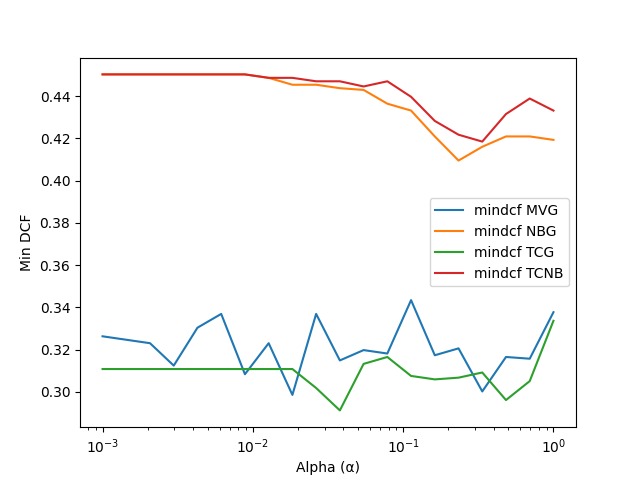
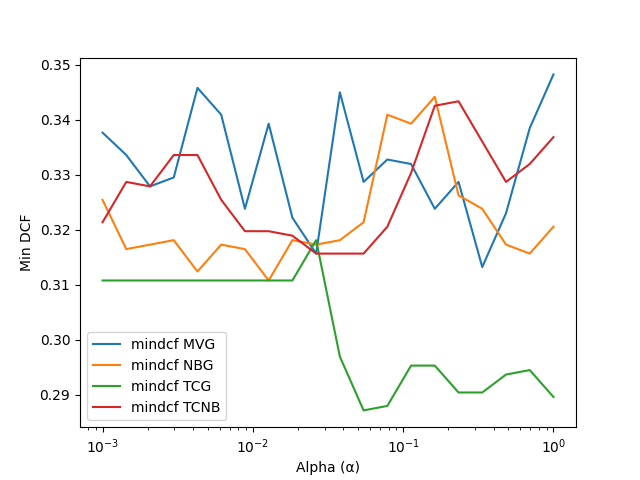
Re-plotting and updated minDCF and actDCF

diff --git a/src/mainGMM.py b/src/mainGMM.py
@@ -58,7 +58,6 @@ def compute_GMM_DCFMin(D, L, p, G, alpha, gauss=False, model='MVG', PCAm=None):
 
     return DCFMin
 
-
 def main_tuning_alpha():
     D, L = load_db()
     p = 0.5
@@ -111,7 +110,6 @@ def main_find_best_G():
     alpha = 0.1
     G = [1, 2, 4, 8, 16, 32, 64, 128, 256, 512]
     MODELS = ['MVG', 'NBG', 'TCG', 'TCNB']
-    
 
     for model in MODELS:
         MINDCF_RAW = np.zeros(len(G))
@@ -131,9 +129,8 @@ def main_best_models():
     alpha = 0.1
     
     for p in [0.5, 0.1, 0.9]:
-        compute_GMM_DCFMin(D, L, p, 512, alpha, False, 'MVG')
-        compute_GMM_DCFMin(D, L, p, 128, alpha, True, 'MVG')
-        compute_GMM_DCFMin(D, L, p, 128, alpha, True, 'TCG')
+        compute_GMM_DCFMin(D, L, p, 8, alpha, True, 'TCG')
+        compute_GMM_DCFMin(D, L, p, 4, alpha, True, 'MVG')
 
 
 def main_BayesPlot(train=True):
@@ -142,50 +139,17 @@ def main_BayesPlot(train=True):
 
     plt.figure()
 
-    # 1 MVG Raw
-    print("MVG Raw 512G (alpha=0.1):")
-    LLR, LTE = compute_GMM_LLR(D, L, 512, alpha, False, 'MVG')
-    minDCF, PI, MP, actDCF = showBayesPlot(LLR, LTE, NUM_CLASSES, "MVG Raw 512G (alpha=0.1)", False)
+    # 1 TCG Gaussianized 8G
+    print("TCG Gau 8G (alpha=0.1):")
+    LLR, LTE = compute_GMM_LLR(D, L, 8, alpha, True, 'TCG')
+    minDCF, PI, MP, actDCF = showBayesPlot(LLR, LTE, NUM_CLASSES, "TCG Gaussianized 8G (alpha=0.1)", False)
     MP[0].showStatsByThres(PI,LTE,2)
     print("minDCF:", minDCF, " | actDCF:", actDCF)
 
-    # 2 TCG Gaussianized
-    print("MVG Gau 128G (alpha=0.1):")
-    LLR, LTE = compute_GMM_LLR(D, L, 128, alpha, True, 'TCG')
-    minDCF, PI, MP, actDCF = showBayesPlot(LLR, LTE, NUM_CLASSES, "MVG Gaussianized 128G (alpha=0.1)", False)
-    MP[0].showStatsByThres(PI,LTE,2)
-    print("minDCF:", minDCF, " | actDCF:", actDCF)
-
-    if train:
-        plt.savefig('./src/plots/GMM/GMM_bayes_DCF_trainSet.png')
-    else:
-        plt.savefig('./src/plots/GMM/GMM_bayes_DCF_testSet.png')
-    plt.show()
-
-    print()
-
-
-def main_BayesPlotNOTRAIN(train=True):
-    D, L = load_db(train)
-    alpha = 0.1
-
-    plt.figure()
-
-    # 1 MVG Raw
-    print("MVG Raw 512G (alpha=0.1):")
-    # LLR, LTE = compute_GMM_LLR(D, L, 512, alpha, False, 'MVG')
-    LLR = np.load('LLR_512.npy')
-    LTE = np.load('LTE_512.npy')
-    minDCF, PI, MP, actDCF = showBayesPlot(LLR, LTE, NUM_CLASSES, "MVG Raw 512G (alpha=0.1)", False)
-    MP[0].showStatsByThres(PI,LTE,2)
-    print("minDCF:", minDCF, " | actDCF:", actDCF)
-
-    # 2 TCG Gaussianized
-    print("MVG Gau 128G (alpha=0.1):")
-    # LLR, LTE = compute_GMM_LLR(D, L, 128, alpha, True, 'TCG')
-    LLR = np.load('LLR_128.npy')
-    LTE = np.load('LTE_128.npy')
-    minDCF, PI, MP, actDCF = showBayesPlot(LLR, LTE, NUM_CLASSES, "MVG Gaussianized 128G (alpha=0.1)", False)
+    # 2 MVG Gaussianized 4G
+    print("MVG Gau 4G (alpha=0.1):")
+    LLR, LTE = compute_GMM_LLR(D, L, 4, alpha, True, 'MVG')
+    minDCF, PI, MP, actDCF = showBayesPlot(LLR, LTE, NUM_CLASSES, "MVG Gaussianized 4G (alpha=0.1)", False)
     MP[0].showStatsByThres(PI,LTE,2)
     print("minDCF:", minDCF, " | actDCF:", actDCF)
 
@@ -195,26 +159,22 @@ def main_BayesPlotNOTRAIN(train=True):
         plt.savefig('./src/plots/GMM/GMM_bayes_DCF_testSet.png')
     plt.show()
 
-    print()
 
 if __name__ == '__main__':
     # main_tuning_alpha()
     # main_find_best_G()
     # main_best_models()
     main_BayesPlot()
-    # main_BayesPlotNOTRAIN()
 
 '''
 # BEST MODELS
 
-(MVG) Raw -> minDCF = 0.283, G=512, pt=0.5
-(MVG) Gau -> minDCF = 0.300, G=128, pt-0.5
-(TCG) Gau -> minDCF = 0.285, G=128, pt=0.5
+(TCG) Gau -> minDCF = 0.2871125611745514, G=8
+(MVG) Gau -> minDCF = 0.2911908646003263, G=4
 
+All models permorm better at middle-low values of G (4,8,16).
 The Naive Bayes assumption doesn't perform well both with or without tied covariance.
-Gaussanization it's harmful in this case.
-Non-diagonal models, on the other hand, provide smaller minimum DCF at higher values of G. 
-The tied covariance model perform better with Gaussianization while the non-tied with raw
-data. 
+Tied covariance models perform better with Gaussianization on middle-low values of G. With higher
+values Minimum DCF tend to increase compared to raw models.
 
 '''
